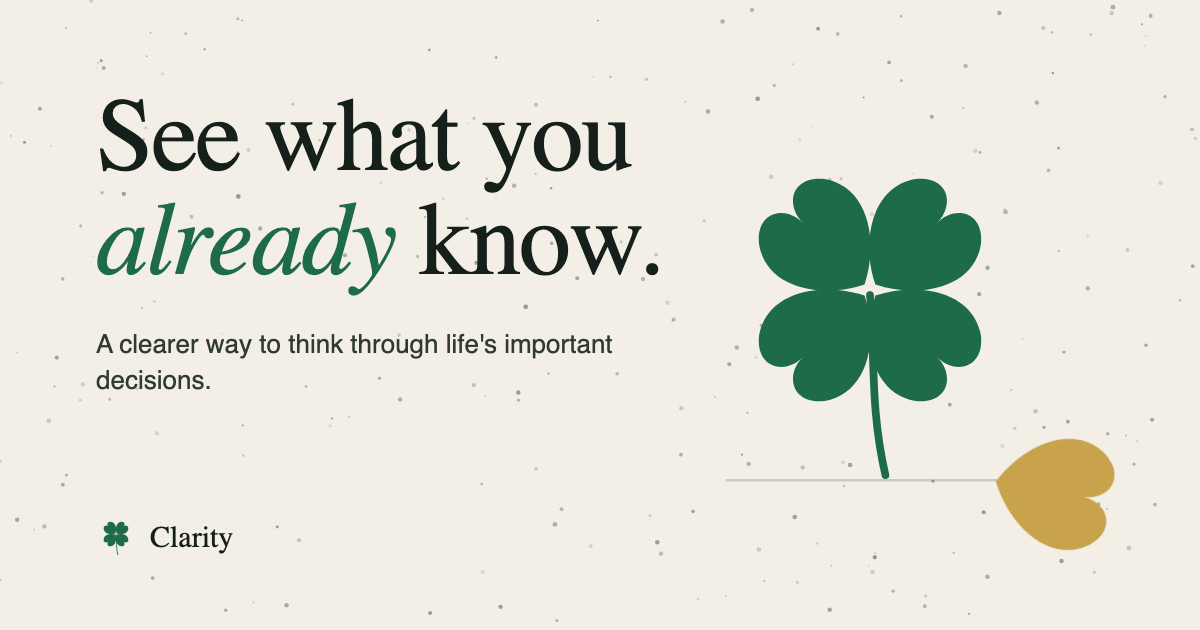
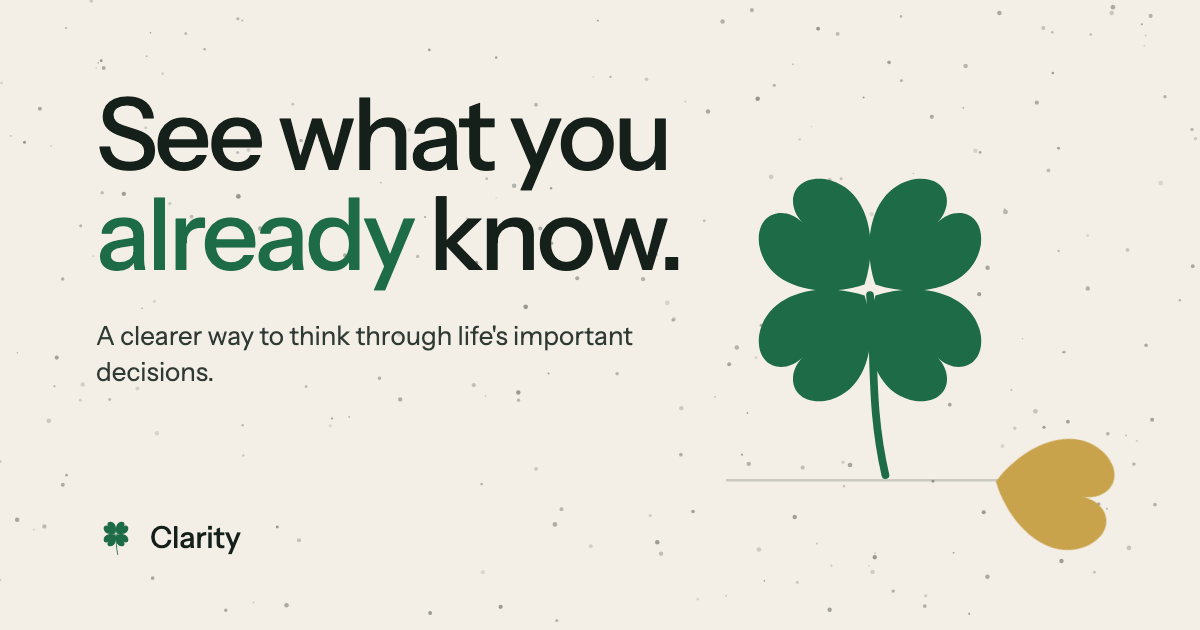
Replace Fraunces with Instrument Sans, tighten the homepage, add brand strategy
One humanist sans everywhere (Markkula: impute). Hero is now the concept's
exact homepage: brand line, "What's on your mind?", one field, one promise.
BRAND.md extends Kantar's MDS with a Demonstrated test and the Oh rate.

diff --git a/index.html b/index.html
@@ -24,7 +24,7 @@
 <meta name="twitter:image" content="https://clarity-production.up.railway.app/og-image.png">
 <link rel="preconnect" href="https://fonts.googleapis.com">
 <link rel="preconnect" href="https://fonts.gstatic.com" crossorigin>
-<link rel="stylesheet" href="https://fonts.googleapis.com/css2?family=Fraunces:ital,opsz,wght,SOFT@0,9..144,300..500,0..100;1,9..144,300..500,0..100&family=Inter:wght@400;500;600&display=swap">
+<link rel="stylesheet" href="https://fonts.googleapis.com/css2?family=Instrument+Sans:ital,wght@0,400..700;1,400..700&display=swap">
 <link rel="stylesheet" href="css/site.css">
 <script type="application/ld+json">
 {"@context":"https://schema.org","@type":"SoftwareApplication","name":"Clarity","applicationCategory":"LifestyleApplication","operatingSystem":"Web","description":"A clearer way to think through life's important decisions.","url":"https://clarity-production.up.railway.app/","offers":{"@type":"Offer","price":"0","priceCurrency":"USD"}}
@@ -60,21 +60,21 @@
   <canvas id="lens" aria-hidden="true"></canvas>
   <div class="wrap hero-grid">
     <div>
-      <p class="eyebrow reveal">For important decisions</p>
-      <h1 class="display h1 reveal" data-delay="1">See what you <em>already</em> know.</h1>
-      <p class="lede reveal" data-delay="2">You're probably closer to an answer than you think. Clarity separates what you know from what you're assuming, finds what actually matters, and shows you the one thing that could change your call.</p>
-      <form class="ask reveal" data-delay="3" action="app.html" method="get">
+      <p class="line reveal"><b>Clarity</b><span>See what you already know.</span></p>
+      <h1 class="display h1 reveal" data-delay="1">What's on <em>your</em> mind?</h1>
+      <form class="ask reveal" data-delay="2" action="app.html" method="get">
         <label class="sr-only" for="q">What's on your mind?</label>
-        <input id="q" name="q" type="text" placeholder="What's on your mind?" autocomplete="off" maxlength="160">
-        <button class="btn" type="submit">Look at it clearly <span class="arrow" aria-hidden="true">→</span></button>
+        <input id="q" name="q" type="text" placeholder="Should I…" autocomplete="off" maxlength="160">
+        <button class="btn" type="submit">Let's look at it clearly <span class="arrow" aria-hidden="true">→</span></button>
       </form>
-      <div class="chips reveal" data-delay="4" aria-label="Examples">
+      <div class="chips reveal" data-delay="3" aria-label="Examples">
         <button class="chip" type="button" data-q="Should I take the new job?">Should I take the new job?</button>
         <button class="chip" type="button" data-q="Should I move?">Should I move?</button>
         <button class="chip" type="button" data-q="Should I go back to school?">Should I go back to school?</button>
         <button class="chip" type="button" data-q="Should I buy the house?">Should I buy the house?</button>
         <button class="chip" type="button" data-q="Should I stay?">Should I stay?</button>
       </div>
+      <p class="after reveal" data-delay="4">You're probably closer to an answer than you think.</p>
     </div>
     <aside class="hero-aside reveal" data-delay="2">
       <button type="button" data-clover="hero" aria-label="Replay the Clarity mark animation"></button>
@@ -113,7 +113,8 @@
       <div>
         <p class="eyebrow reveal">A different kind of intelligence</p>
         <h2 class="display h2 reveal" id="how-h" data-delay="1">Clarity asks <em>before</em> it advises.</h2>
-        <p class="lede reveal" data-delay="2" style="margin-top:22px">Most AI tries to appear intelligent. Clarity is built to make you feel intelligent. It never rushes to the answer, because the answer isn't the point. Seeing the decision is.</p>
+        <p class="lede reveal" data-delay="2" style="margin-top:22px">You don't need another opinion. You need to see the decision clearly.</p>
+        <p class="quiet reveal" data-delay="3" style="margin-top:18px;max-width:34em">We'll separate what you know from what you think you know, identify what matters, and show you what could change the picture. Most AI tries to appear intelligent. Clarity is built to make you feel intelligent.</p>
       </div>
       <div class="dialogue">
         <div class="card dim reveal" data-delay="1">
@@ -139,7 +140,7 @@
       <p class="eyebrow reveal">The method</p>
       <h2 class="display h2 reveal" id="method-h" data-delay="1">Know. Weigh. <em>See.</em></h2>
       <p class="lede reveal" data-delay="2" style="margin-top:22px">Ten quiet questions. Sophisticated underneath, simple on top. The conclusion is held back until you've explored the decision, because the exploration is where the clarity comes from.</p>
-      <p class="quiet reveal" data-delay="3" style="margin-top:18px;font-size:.92rem">Then: now you can decide.</p>
+      <p class="reveal" data-delay="3" style="margin-top:18px;font-weight:500">Then: make your call. The decision remains yours.</p>
     </div>
     <div>
       <article class="pillar reveal">
@@ -181,7 +182,8 @@
   <div class="wrap">
     <p class="eyebrow reveal">A language for thinking</p>
     <h2 class="display h2 reveal measure" id="lens-h" data-delay="1">The Clarity <em>Lens</em></h2>
-    <p class="lede reveal" data-delay="2" style="margin:22px 0 48px">A small vocabulary you'll start using on your own. That's the idea.</p>
+    <p class="lede reveal" data-delay="2" style="margin:22px 0 12px">After fifteen minutes of talking it through, Clarity says: here's what you've told me. Here's what you know. Here's what you believe. Here's what you don't know. And here's the assumption your decision depends on most.</p>
+    <p class="quiet reveal" data-delay="3" style="margin:0 0 48px">A small vocabulary you'll start using on your own. That's the idea.</p>
     <div class="vocab">
       <div class="term reveal"><span class="k"></span><h3>Known</h3><p>What you actually know. Things you could verify today.</p></div>
       <div class="term assumed reveal" data-delay="1"><span class="k"></span><h3>Assumed</h3><p>What you're treating as true. Often the whole decision rests here.</p></div>
@@ -279,7 +281,7 @@
   <div class="wrap">
     <p class="eyebrow reveal">Whenever you're ready</p>
     <h2 class="display h1 reveal" id="final-h" data-delay="1" style="max-width:14ch">What's on <em>your</em> mind?</h2>
-    <p class="lede reveal" data-delay="2" style="margin-top:22px">You don't need another opinion. You need to see the decision clearly. Once you do, you may not need Clarity anymore. That's the point.</p>
+    <p class="lede reveal" data-delay="2" style="margin-top:22px">Let's slow this down. Once you can see the decision clearly, you may not need Clarity anymore. That's the point.</p>
     <form class="ask reveal" data-delay="3" action="app.html" method="get">
       <label class="sr-only" for="q2">What's on your mind?</label>
       <input id="q2" name="q" type="text" placeholder="Should I…" autocomplete="off" maxlength="160">

diff --git a/css/site.css b/css/site.css
@@ -20,8 +20,8 @@
   --gold-soft: rgba(201, 162, 76, 0.18);
   --shadow: 0 30px 80px -30px rgba(22, 32, 27, 0.28), 0 2px 6px rgba(22, 32, 27, 0.05);
 
-  --display: "Fraunces", "Iowan Old Style", Georgia, serif;
-  --sans: "Inter", -apple-system, "Segoe UI", Helvetica, Arial, sans-serif;
+  --display: "Instrument Sans", -apple-system, "Segoe UI", Helvetica, Arial, sans-serif;
+  --sans: "Instrument Sans", -apple-system, "Segoe UI", Helvetica, Arial, sans-serif;
 
   --ease: cubic-bezier(0.22, 0.72, 0.18, 1);
   --ease-out: cubic-bezier(0.16, 1, 0.3, 1);
@@ -113,14 +113,13 @@ body::before {
 /* ---------- type ---------- */
 .display {
   font-family: var(--display);
-  font-weight: 300;
-  font-variation-settings: "opsz" 144, "SOFT" 30;
-  letter-spacing: -0.02em;
+  font-weight: 500;
+  letter-spacing: -0.035em;
   line-height: 1.02;
   text-wrap: balance;
 }
-.display em { font-style: italic; font-weight: 300; color: var(--moss); }
-.h1 { font-size: clamp(2.6rem, 8vw, 6.4rem); }
+.display em { font-style: normal; font-weight: 500; color: var(--moss); }
+.h1 { font-size: clamp(2.5rem, 7.2vw, 5.6rem); }
 .h2 { font-size: clamp(2rem, 5.2vw, 4rem); }
 .h3 { font-size: clamp(1.5rem, 3vw, 2.3rem); line-height: 1.1; }
 .lede {
@@ -159,7 +158,7 @@ body::before {
   -webkit-backdrop-filter: blur(14px) saturate(1.2);
   border-bottom: 1px solid var(--line-soft);
 }
-.brand { display: inline-flex; align-items: center; gap: 10px; font-family: var(--display); font-size: 1.25rem; letter-spacing: -0.01em; }
+.brand { display: inline-flex; align-items: center; gap: 10px; font-family: var(--display); font-weight: 600; font-size: 1.15rem; letter-spacing: -0.02em; }
 .brand svg { width: 28px; height: 30px; }
 .nav { display: flex; gap: 26px; align-items: center; font-size: 0.92rem; }
 .nav a { color: var(--ink-2); position: relative; }
@@ -210,8 +209,8 @@ body::before {
 .loader.done { opacity: 0; visibility: hidden; }
 .loader .mark { width: clamp(84px, 14vw, 130px); }
 .loader .word {
-  margin-top: 18px; font-family: var(--display); font-size: clamp(1.5rem, 3vw, 2rem);
-  letter-spacing: 0.02em; opacity: 0; transform: translateY(6px);
+  margin-top: 18px; font-family: var(--display); font-weight: 600; font-size: clamp(1.5rem, 3vw, 2rem);
+  letter-spacing: -0.02em; opacity: 0; transform: translateY(6px);
   transition: opacity 800ms var(--ease) 200ms, transform 800ms var(--ease) 200ms;
 }
 .loader.word-in .word { opacity: 1; transform: none; }
@@ -234,6 +233,10 @@ body::before {
 .hero-grid { display: grid; gap: 40px; align-items: end; }
 @media (min-width: 960px) { .hero-grid { grid-template-columns: 7fr 5fr; } }
 .hero .h1 { max-width: 12ch; }
+.hero .line { font-size: 1.05rem; color: var(--ink-2); display: flex; align-items: center; gap: 12px; margin-bottom: 26px; }
+.hero .line b { font-weight: 600; letter-spacing: -0.01em; }
+.hero .line span { color: var(--fog); }
+.hero .after { margin-top: 26px; font-size: 1.05rem; color: var(--fog); }
 .hero .lede { margin-top: 26px; }
 .ask {
   margin-top: 40px; max-width: 560px;
@@ -283,7 +286,7 @@ body::before {
 .msg + .msg { margin-top: 18px; }
 .msg .who { font-size: .72rem; letter-spacing: .16em; text-transform: uppercase; color: var(--fog); }
 .msg .say { font-size: 1.05rem; line-height: 1.5; }
-.msg .say.q { font-family: var(--display); font-size: clamp(1.25rem, 2vw, 1.6rem); font-weight: 300; line-height: 1.25; }
+.msg .say.q { font-family: var(--display); font-size: clamp(1.2rem, 1.9vw, 1.5rem); font-weight: 500; letter-spacing: -0.02em; line-height: 1.25; }
 .msg .say.many { color: var(--fog); font-size: .92rem; }
 .rule { height: 1px; background: var(--line-soft); margin: 22px 0; }
 
@@ -295,7 +298,7 @@ body::before {
 }
 .pillar { padding: clamp(28px, 4vw, 48px) 0; border-top: 1px solid var(--line); display: grid; gap: 14px; }
 .pillar:last-child { border-bottom: 1px solid var(--line); }
-.pillar .num { font-family: var(--display); font-size: .9rem; color: var(--fog); font-variant-numeric: tabular-nums; }
+.pillar .num { font-size: .78rem; letter-spacing: .12em; text-transform: uppercase; color: var(--fog); font-variant-numeric: tabular-nums; }
 .pillar ul { margin: 6px 0 0; padding: 0; list-style: none; display: grid; gap: 6px; color: var(--ink-2); }
 .pillar li::before { content: "— "; color: var(--fog); }
 
@@ -308,7 +311,7 @@ body::before {
   display: grid; gap: 8px; transition: transform var(--mid) var(--ease), box-shadow var(--mid) var(--ease), border-color var(--mid);
 }
 .term:hover { transform: translateY(-4px); box-shadow: var(--shadow); border-color: transparent; }
-.term h3 { font-family: var(--display); font-weight: 400; font-size: 1.35rem; }
+.term h3 { font-family: var(--display); font-weight: 600; font-size: 1.2rem; letter-spacing: -0.02em; }
 .term p { color: var(--ink-2); font-size: .95rem; }
 .term .k { width: 10px; height: 10px; border-radius: 50%; background: var(--moss); }
 .term.assumed .k { background: var(--gold); }
@@ -331,12 +334,12 @@ body::before {
   background: linear-gradient(160deg, rgba(255,255,255,.35), transparent 40%);
 }
 @media (prefers-color-scheme: dark) { :root:not([data-theme="light"]) .report::before { background: linear-gradient(160deg, rgba(255,255,255,.04), transparent 40%); } }
-.report h3 { font-family: var(--display); font-weight: 400; font-size: 1.7rem; letter-spacing: -0.01em; }
+.report h3 { font-family: var(--display); font-weight: 600; font-size: 1.5rem; letter-spacing: -0.025em; }
 .report .row { padding: 18px 0; border-top: 1px solid var(--line-soft); display: grid; gap: 6px; }
 .report .row:first-of-type { border-top: 0; }
 .report .k { font-size: .72rem; letter-spacing: .16em; text-transform: uppercase; color: var(--fog); }
 .report .v { font-size: 1rem; line-height: 1.5; }
-.report .v.big { font-family: var(--display); font-size: 1.35rem; font-weight: 300; line-height: 1.3; }
+.report .v.big { font-family: var(--display); font-size: 1.25rem; font-weight: 500; letter-spacing: -0.015em; line-height: 1.3; }
 .report .tag { display: inline-block; padding: 3px 10px; border-radius: 999px; background: var(--moss-soft); color: var(--moss); font-size: .8rem; font-weight: 500; }
 .report .pivot-row { background: var(--gold-soft); margin: 10px -16px; padding: 18px 16px; border-radius: 12px; border: 0; }
 
@@ -344,7 +347,7 @@ body::before {
 .principles { list-style: none; margin: 0; padding: 0; display: grid; }
 .principles li {
   padding: 22px 0; border-top: 1px solid var(--line);
-  font-family: var(--display); font-weight: 300; font-size: clamp(1.3rem, 2.4vw, 2rem); line-height: 1.2;
+  font-family: var(--display); font-weight: 500; letter-spacing: -0.025em; font-size: clamp(1.25rem, 2.2vw, 1.8rem); line-height: 1.2;
   display: grid; grid-template-columns: 3ch 1fr; gap: 16px; align-items: baseline;
 }
 .principles li:last-child { border-bottom: 1px solid var(--line); }

diff --git a/css/app.css b/css/app.css
@@ -20,18 +20,18 @@
 @keyframes stepOut { to { opacity: 0; transform: translateY(-10px); filter: blur(4px); } }
 .who { font-size: .72rem; letter-spacing: .16em; text-transform: uppercase; color: var(--fog); display: flex; align-items: center; gap: 10px; }
 .who::before { content: ""; width: 8px; height: 8px; border-radius: 50%; background: var(--moss); }
-.prompt { font-family: var(--display); font-weight: 300; font-size: clamp(1.7rem, 3.6vw, 2.6rem); line-height: 1.12; letter-spacing: -0.015em; text-wrap: balance; }
-.prompt em { font-style: italic; color: var(--moss); }
+.prompt { font-family: var(--display); font-weight: 500; font-size: clamp(1.6rem, 3.2vw, 2.3rem); line-height: 1.12; letter-spacing: -0.03em; text-wrap: balance; }
+.prompt em { font-style: normal; color: var(--moss); }
 .hint { color: var(--fog); font-size: .98rem; max-width: 40em; text-wrap: pretty; }
 .hint b { color: var(--ink-2); font-weight: 500; }
-.you { font-family: var(--display); font-size: 1.15rem; color: var(--ink-2); padding: 12px 18px; border-left: 2px solid var(--gold); background: var(--gold-soft); border-radius: 0 12px 12px 0; }
+.you { font-family: var(--display); font-weight: 500; font-size: 1.1rem; color: var(--ink-2); padding: 12px 18px; border-left: 2px solid var(--gold); background: var(--gold-soft); border-radius: 0 12px 12px 0; }
 
 .field { display: grid; gap: 8px; }
 .field label { font-size: .85rem; color: var(--ink-2); font-weight: 500; }
 .input, textarea.input { width: 100%; font: inherit; font-size: 1.05rem; color: var(--ink); background: var(--paper); border: 1px solid var(--line); border-radius: 14px; padding: 14px 16px; outline: none; transition: border-color var(--fast), box-shadow var(--fast); }
 .input:focus { border-color: var(--moss); box-shadow: 0 0 0 4px var(--moss-soft); }
 textarea.input { min-height: 96px; resize: vertical; }
-.input.big { font-family: var(--display); font-size: 1.45rem; padding: 18px 20px; border-radius: 18px; }
+.input.big { font-family: var(--display); font-weight: 500; letter-spacing: -0.02em; font-size: 1.35rem; padding: 18px 20px; border-radius: 18px; }
 .two { display: grid; gap: 14px; }
 @media (min-width: 640px) { .two { grid-template-columns: 1fr 1fr; } }
 .opt-label { display: inline-flex; align-items: center; gap: 8px; }
@@ -74,13 +74,13 @@ textarea.input { min-height: 96px; resize: vertical; }
 .row-s { display: grid; grid-template-columns: 1fr auto; gap: 10px 16px; align-items: center; padding: 14px 16px; border: 1px solid var(--line); border-radius: 14px; background: var(--paper); }
 .row-s .lbl { font-weight: 500; }
 .row-s .sub { color: var(--fog); font-size: .85rem; }
-.row-s .val { font-family: var(--display); font-size: 1.3rem; min-width: 2ch; text-align: right; font-variant-numeric: tabular-nums; }
+.row-s .val { font-family: var(--display); font-weight: 500; font-size: 1.2rem; min-width: 2ch; text-align: right; font-variant-numeric: tabular-nums; }
 .row-s input[type=range] { grid-column: 1 / -1; }
 .compare { display: grid; gap: 10px; }
 .compare .pair { display: grid; grid-template-columns: 1fr 1fr; gap: 12px; }
 .compare .pair > div { display: grid; grid-template-columns: 1fr auto; gap: 8px 12px; align-items: center; padding: 12px 14px; border: 1px solid var(--line); border-radius: 12px; }
 .compare .pair input { grid-column: 1 / -1; }
-.compare .pair .n { font-family: var(--display); font-size: 1.2rem; font-variant-numeric: tabular-nums; }
+.compare .pair .n { font-family: var(--display); font-weight: 500; font-size: 1.1rem; font-variant-numeric: tabular-nums; }
 @media (max-width: 520px) { .compare .pair { grid-template-columns: 1fr; } }
 
 input[type=range] { -webkit-appearance: none; appearance: none; width: 100%; height: 22px; background: transparent; }
@@ -95,7 +95,7 @@ input[type=range]:focus-visible::-webkit-slider-thumb { box-shadow: 0 0 0 4px va
 .b-thumb::-webkit-slider-thumb { background: var(--gold); }
 .b-thumb::-moz-range-thumb { background: var(--gold); }
 
-.pct { font-family: var(--display); font-size: clamp(3rem, 8vw, 5rem); font-weight: 300; line-height: 1; font-variant-numeric: tabular-nums; }
+.pct { font-family: var(--display); font-size: clamp(3rem, 8vw, 5rem); font-weight: 500; letter-spacing: -0.04em; line-height: 1; font-variant-numeric: tabular-nums; }
 .pct small { font-size: .35em; color: var(--fog); }
 
 /* stress test checks */
@@ -111,7 +111,7 @@ input[type=range]:focus-visible::-webkit-slider-thumb { box-shadow: 0 0 0 4px va
 /* thinking interstitial */
 .thinking { display: grid; gap: 14px; place-items: center; text-align: center; padding: 60px 0; }
 .thinking .mark { width: 120px; }
-.thinking p { font-family: var(--display); font-size: 1.3rem; color: var(--ink-2); }
+.thinking p { font-family: var(--display); font-weight: 500; font-size: 1.2rem; color: var(--ink-2); }
 
 /* report (reuses .report from site.css) */
 .report-page { display: grid; gap: 28px; }
@@ -123,14 +123,14 @@ input[type=range]:focus-visible::-webkit-slider-thumb { box-shadow: 0 0 0 4px va
 .chips-k span.fact { background: var(--moss-soft); color: var(--moss); border-color: transparent; }
 .chips-k span.belief { background: var(--gold-soft); border-color: transparent; }
 .chips-k span.unknown { background: var(--paper-3); border-color: transparent; }
-.clar { display: inline-flex; align-items: center; gap: 10px; font-family: var(--display); font-size: 1.6rem; }
+.clar { display: inline-flex; align-items: center; gap: 10px; font-family: var(--display); font-weight: 500; font-size: 1.4rem; }
 .clar .tag { font-family: var(--sans); font-size: .8rem; }
 .clar.Low .tag { background: var(--gold-soft); color: var(--ink); }
 .clar.Medium .tag { background: var(--paper-3); color: var(--ink); }
 .report ul.plain { margin: 6px 0 0; padding-left: 1.1em; color: var(--ink-2); font-size: .95rem; display: grid; gap: 4px; }
 .report .warn li::marker { color: var(--gold); }
 .after { display: grid; gap: 14px; padding: 28px; border: 1px solid var(--line); border-radius: 18px; }
-.after h4 { font-family: var(--display); font-weight: 400; font-size: 1.3rem; margin: 0; }
+.after h4 { font-family: var(--display); font-weight: 600; font-size: 1.15rem; letter-spacing: -0.02em; margin: 0; }
 .after .thanks { color: var(--moss); font-size: .95rem; }
 .report-actions { display: flex; flex-wrap: wrap; gap: 10px; }
 .toast { position: fixed; left: 50%; bottom: 24px; transform: translate(-50%, 20px); background: var(--ink); color: var(--paper); padding: 10px 16px; border-radius: 999px; font-size: .9rem; opacity: 0; transition: all var(--fast) var(--ease); pointer-events: none; z-index: 60; }

diff --git a/og-image-source.html b/og-image-source.html
@@ -1,12 +1,12 @@
 <!DOCTYPE html><html><head><meta charset="utf-8">
-<link rel="stylesheet" href="https://fonts.googleapis.com/css2?family=Fraunces:ital,opsz,wght,SOFT@0,9..144,300;1,9..144,300&family=Inter:wght@400;500&display=swap">
+<link rel="stylesheet" href="https://fonts.googleapis.com/css2?family=Instrument+Sans:ital,wght@0,400..700;1,400..700&display=swap">
 <style>
-html,body{margin:0;width:1200px;height:630px;background:#F3EFE6;color:#16201B;font-family:Inter,sans-serif;overflow:hidden}
+html,body{margin:0;width:1200px;height:630px;background:#F3EFE6;color:#16201B;font-family:'Instrument Sans',sans-serif;overflow:hidden}
 .w{position:relative;width:1200px;height:630px;padding:84px 96px;box-sizing:border-box}
-h1{font-family:Fraunces,serif;font-weight:300;font-size:104px;line-height:1;letter-spacing:-.02em;margin:0;max-width:760px}
-h1 em{font-style:italic;color:#1E6B47}
+h1{font-family:'Instrument Sans',sans-serif;font-weight:500;font-size:100px;line-height:1;letter-spacing:-.035em;margin:0;max-width:760px}
+h1 em{font-style:normal;color:#1E6B47}
 p{font-size:26px;color:#2E3A33;margin:34px 0 0;max-width:600px;line-height:1.4}
-.b{position:absolute;left:96px;bottom:70px;font-family:Fraunces,serif;font-size:30px;display:flex;align-items:center;gap:14px}
+.b{position:absolute;left:96px;bottom:70px;font-family:'Instrument Sans',sans-serif;font-weight:500;letter-spacing:-.01em;font-size:30px;display:flex;align-items:center;gap:14px}
 svg{position:absolute;right:150px;top:110px;width:360px;overflow:visible}
 .leaf{fill:#1E6B47}.fallen{fill:#C9A24C}.stem{stroke:#1E6B47;stroke-width:3;fill:none;stroke-linecap:round}.ground{stroke:rgba(22,32,27,.18)}
 .dots{position:absolute;inset:0;z-index:0}

diff --git a/js/app.js b/js/app.js
@@ -97,7 +97,7 @@
     a.addEventListener("input", () => { S.options.a.label = a.value; S.optionsEdited = true; });
     b.addEventListener("input", () => { S.options.b.label = b.value; S.optionsEdited = true; });
     return [
-      who(), prompt(S.question ? "Let's look at it clearly." : "Tell me what you're trying to decide."), toneLine,
+      who(), prompt(S.question ? "Let's slow this down." : "Tell me what you're trying to decide."), toneLine,
       h("div", { class: "field" }, h("label", { for: "q" }, "The decision"), q),
       hint("Most decisions are two paths. Name them plainly. <b>Don't decide yet</b> is always on the table too; we'll come to it."),
       h("div", { class: "two" },

diff --git a/app.html b/app.html
@@ -11,7 +11,7 @@
 <link rel="icon" type="image/svg+xml" href="assets/favicon.svg">
 <link rel="preconnect" href="https://fonts.googleapis.com">
 <link rel="preconnect" href="https://fonts.gstatic.com" crossorigin>
-<link rel="stylesheet" href="https://fonts.googleapis.com/css2?family=Fraunces:ital,opsz,wght,SOFT@0,9..144,300..500,0..100;1,9..144,300..500,0..100&family=Inter:wght@400;500;600&display=swap">
+<link rel="stylesheet" href="https://fonts.googleapis.com/css2?family=Instrument+Sans:ital,wght@0,400..700;1,400..700&display=swap">
 <link rel="stylesheet" href="css/site.css">
 <link rel="stylesheet" href="css/app.css">
 </head>

diff --git a/BRAND.md b/BRAND.md
@@ -1,0 +1,44 @@
+# Clarity — brand strategy
+
+**Promise.** See what you already know.
+**Job.** Important decisions.
+**Enemy.** Noise.
+**Personality.** Calm intelligence.
+**Signature behaviour.** Asks before it advises.
+**Signature output.** The Pivot.
+**Emotional payoff.** "Now I see it."
+**Long-term payoff.** You need Clarity less each time.
+
+## Markkula, applied
+
+| Principle | What it means here | Where you can see it |
+|---|---|---|
+| **Empathy** | Understand the person before analysing the decision. Emotional intensity changes the tone, never the engine. | First screen adapts its opening line to the weight of the question. Step two asks what they hope changes before anything else. |
+| **Focus** | One decision, one conversation, one next step. Own "important decisions", nothing wider. | Homepage is one question and one field. The app shows one prompt at a time. The report ends on one Next Question. |
+| **Impute** | People infer quality from presentation. The interface must itself feel clear. | One typeface, one accent, one gold. No dashboard, no graphs, no jargon. The mark demonstrates the promise: one leaf falls, the rest resolves. |
+
+## Kantar's Meaningful · Different · Salient, and where it falls short for Clarity
+
+MDS is a brand-equity framework: it measures how a brand is *perceived*, and it argues (correctly) that meaningful difference should come before chasing salience. It's the right starting point. Three gaps for a product like this:
+
+**1. It measures claims, not behaviour.** MDS was built for brands whose difference is largely communicated. Clarity's difference is *enacted*: the product asks before it advises. So the framework needs a fourth test, sitting between Different and Salient:
+
+> **Demonstrated.** Can a person experience the difference inside the first minute, without being told?
+
+For Clarity the demonstration is the second question ("If your current job became less stressful tomorrow, would you still want to leave?"). Nothing on the site should claim what the product can show. That's why the homepage explains nothing.
+
+**2. It has no theory of trust.** MDS treats meaning as needs met. For a thinking tool, meaning is also *what the product refuses to do*. Restraint is equity. So the seven "Never" rules are not principles behind the brand; they are the brand, and they belong on the page. The line "We don't know yet" does more for Meaningful than any benefit statement.
+
+**3. Salience is usually treated as reach.** For Clarity, salience should be *cued*, not broadcast: the moment someone thinks "I have a big decision and can't see it clearly" is the only moment that matters. The proprietary language (Known, Assumed, Unknown, the Pivot, the Threshold, the Next Question) is the salience strategy, because language travels between people at exactly that moment. Vocabulary beats advertising.
+
+So the working model is:
+
+**Meaningful → Different → Demonstrated → Salient**, with one governing metric underneath: the "Oh" rate. Did anything become clearer? The report asks it, in four answers. Sessions, minutes and messages are not tracked as goals.
+
+## The paradox we keep on purpose
+
+Clarity is designed to be needed less over time. That contradicts conventional engagement thinking and it is the most differentiated thing about the brand. A person who learns to find their own Pivot has received the full product. The last line of every report says so.
+
+## What the identity is not
+
+No purple, no gradients, no "powered by AI", no probabilities with two decimal places, no dashboard, no recommendation. No serif: the earlier serif read as "editorial" but also as "old money"; a humanist sans reads as clear-headed, which is the actual promise.

diff --git a/README.md b/README.md
@@ -25,7 +25,7 @@ The animation lives in `js/clover.js` (`Clover.mount(el).play()`), plays once on
 | **Signature behaviour** | Asks before it advises. |
 | **Signature output** | The Pivot: the one variable the decision turns on. |
 | **Palette** | Paper `#F3EFE6`, ink `#16201B`, fog `#7C857E`, moss `#1E6B47`, one gold `#C9A24C` reserved for the fallen leaf, the Pivot and "assumed". Dark theme inverts paper/ink and lifts moss. No purple gradients. |
-| **Type** | Fraunces (variable, optical size 144, weight 300) for display: editorial, soft, slightly old. Inter for everything else. |
+| **Type** | One family: Instrument Sans, a humanist sans. Display at weight 500 with tight tracking; body at 400. Editorial, modern, calm. No serif, no second typeface. (Markkula: impute. One voice reads as one mind.) |
 | **Materials & light** | Paper grain over the whole page, soft top-left daylight, long soft shadows, frosted-glass inputs. Nothing hard-edged. |
 | **Motion** | Messy → organised. Blurred → focused. Many → few. Long easings (`cubic-bezier(.22,.72,.18,1)`, 700–1100 ms). The dot field in the hero and the "Noise" section literally resolves from scatter into one line and one gold point as you scroll. Reduced-motion is respected everywhere. |
 | **Rule** | Sophisticated engine. Simple experience. One question, one insight, one thing to consider next. |
@@ -35,7 +35,7 @@ The animation lives in `js/clover.js` (`Clover.mount(el).play()`), plays once on
 | # | Section | Job | Interaction |
 |---|---|---|---|
 | 0 | Loader | The mark plays once (≈3 s), wordmark fades in, page reveals. Skipped on repeat visits and under reduced-motion. | |
-| 1 | Hero | *See what you already know.* One input: "What's on your mind?" Five example chips. Dot field drifts. | Typing or a chip goes straight into the app with the question prefilled. Scrolling resolves the dots. |
+| 1 | Hero | Brand line, then *What's on your mind?*, one field, five example chips, one promise. No explanation, no feature grid, no "powered by AI". | Typing or a chip goes straight into the app with the question prefilled. Scrolling resolves the dots. |
 | 2 | Noise | *The world gives you more information. Clarity helps you make sense of it.* | The scattered field resolves into one line with one gold point as the section reaches centre. |
 | 3 | Ask before advise | Side-by-side dialogue: typical AI vs Clarity's "Maybe. But first: what are you hoping changes?" | Staggered reveal. |
 | 4 | Know. Weigh. See. | The method in three pillars; the left column is sticky while the pillars scroll. | |
@@ -78,7 +78,7 @@ An LLM layer can sit on top later for natural-language extraction, follow-up que
 
 ## Stack
 
-Static HTML, CSS and vanilla JS. No build step, no framework, no bundler. Fonts from Google Fonts. Everything else inline.
+Static HTML, CSS and vanilla JS. No build step, no framework, no bundler. One font from Google Fonts. Everything else inline. Brand strategy in `BRAND.md`.
 
 ```
 index.html          marketing site
